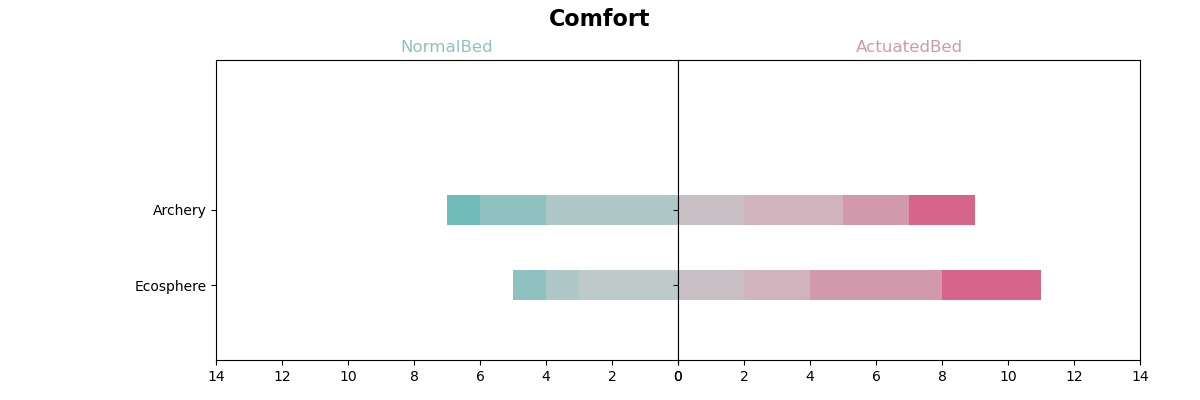
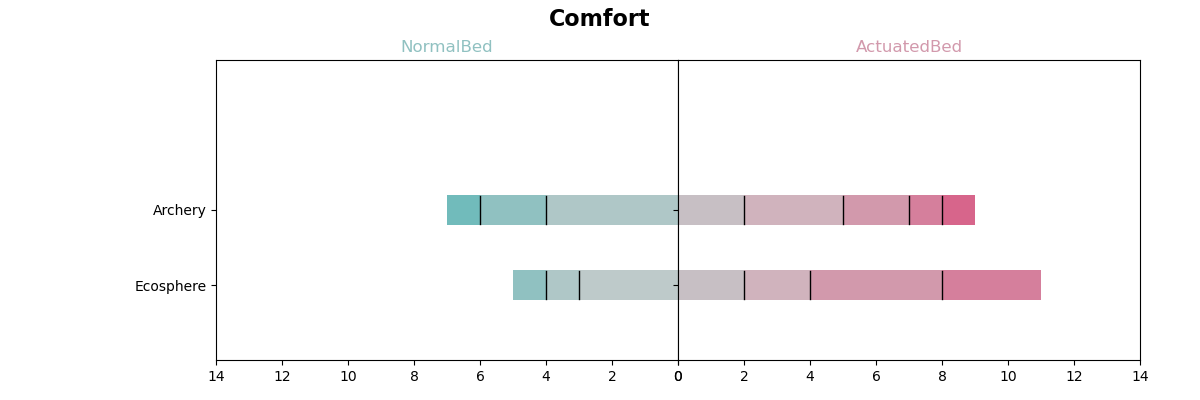
add black bar to likert

Changed region(s): [[0.7708, 0.66, 0.8942, 0.75], [0.74, 0.48, 0.8017, 0.57]]

diff --git a/Summative/Freeplay_DrawLikert.py b/Summative/Freeplay_DrawLikert.py
@@ -55,7 +55,12 @@ for i, condition in enumerate(Conditions):
             height=0.4,
             color=Colors[i][j],
         )
-        # axes[i].bar_label(rects, label_type="center")
+        for rect in rects:
+            x, y = rect.get_xy()
+            w, h = rect.get_width(), rect.get_height()
+            if (w == 0 or x == 0):
+                continue
+            axes[i].plot([x, x], [y + 0.01, y + h - 0.01], color='black', lw=1)
 
 axes[0].invert_xaxis()
 axes[0].set_yticks(range(len(Applications)))
@@ -114,7 +119,12 @@ for i, condition in enumerate(Conditions):
             height=0.4,
             color=Colors[i][j],
         )
-        # axes[i].bar_label(rects, label_type="center")
+        for rect in rects:
+            x, y = rect.get_xy()
+            w, h = rect.get_width(), rect.get_height()
+            if (w == 0 or x == 0):
+                continue
+            axes[i].plot([x, x], [y + 0.01, y + h - 0.01], color='black', lw=1)
 
 axes[0].invert_xaxis()
 axes[0].set_yticks(range(len(Applications) + 1))

diff --git a/Summative/Constant.py b/Summative/Constant.py
@@ -8,7 +8,7 @@ Points = list(range(1, 5 + 1))
 EcosphereClips = ["EcosphereBorneo", "EcosphereRajaAmpat"]
 Colors = [
     ["#BECACA", "#AFC7C7", "#90C1C1", "#71BBBB", "#52B4B4"],
-    ["#C7BFC4", "#D0B3BD", "#D299AC", "#D7658B", "#D7658B"],
+    ["#C7BFC4", "#D0B3BD", "#D299AC", "#D57F9C", "#D7658B"],
 ]
 
 RangeRadarChartAngleLabels = {
